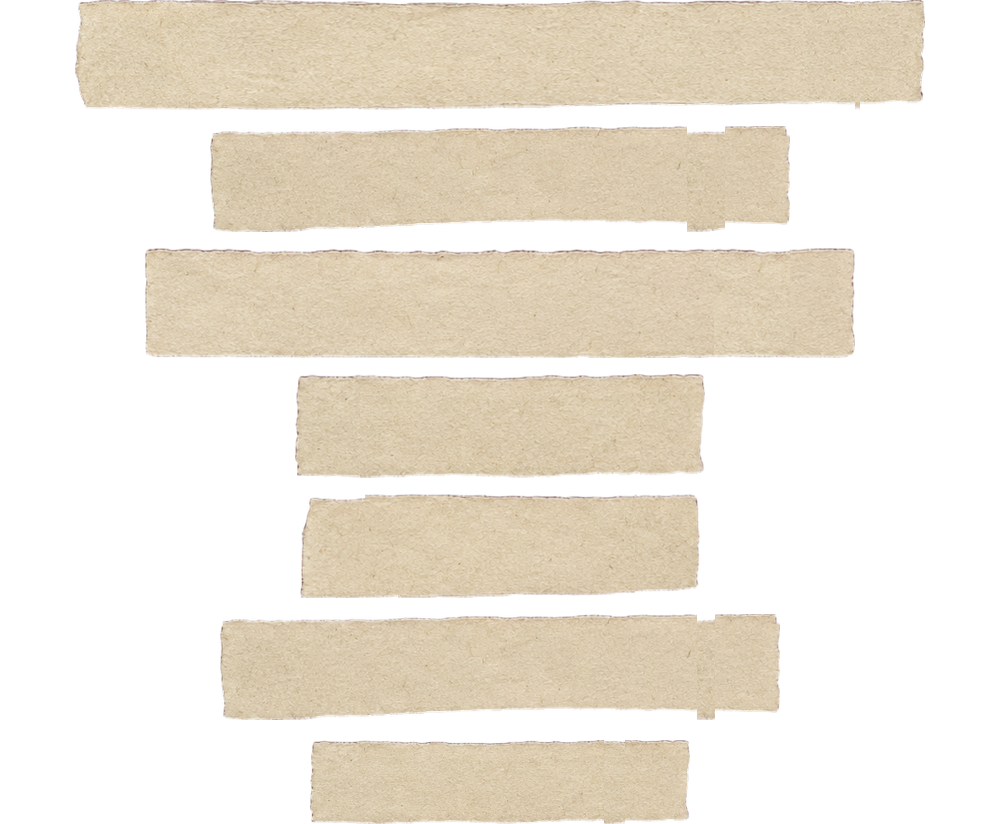
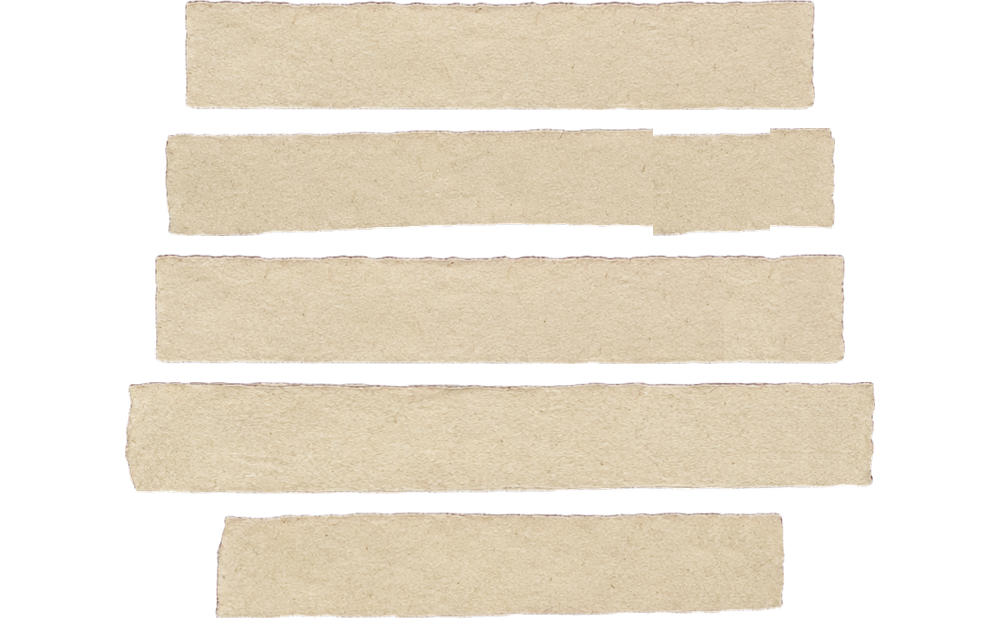
Update greeting memo to 5 personalized lines and update invitation message

diff --git a/index.html b/index.html
@@ -48,17 +48,15 @@
       <div class="locket reveal"><img src="img/locket.png?v=27" alt="신랑신부 로켓 목걸이"></div>
 
       <div class="tapes reveal">
-        <img src="img/tape.png?v=5" alt="">
-        <p style="top:6.7%">사랑하는 사람과 삶을 함께 겪는 것은</p>
-        <p style="top:21.7%">정말 찬란한 행복이구나.</p>
-        <p style="top:36.8%">세상이 중요하다고 했던 것들을</p>
-        <p style="top:51.7%">초월하는 행복.</p>
-        <p style="top:66.3%">대단치 않아도</p>
-        <p style="top:81.0%">둘이서 매일을, 조그맣게</p>
-        <p class="source" style="top:94.9%">- 선우정아, '동거' -</p>
+        <img src="img/tape.png?v=6" alt="">
+        <p style="top:8.9%">처음 한눈에 반했던 순간부터</p>
+        <p style="top:29.4%">그동안 쌓아왔던 기억과 추억들</p>
+        <p style="top:50.0%">그리고 앞으로 그려나갈 미래까지</p>
+        <p style="top:70.9%">평생을 친구이자 부부, 그리고 가족으로</p>
+        <p style="top:91.4%">함께 걸어가고자 합니다.</p>
       </div>
       <p class="msg reveal">
-        서로의 든든한 안식처가 되어줄 시작의 날,<br>
+        사랑하는 사람과 평생을 약속하는 시작의 날,<br>
         귀한 걸음으로 함께해 주시어 축복해 주세요.
       </p>
       <div class="wide-photo reveal"><img src="img/wide.jpg?v=1" alt="신랑 신부 사진"></div>
